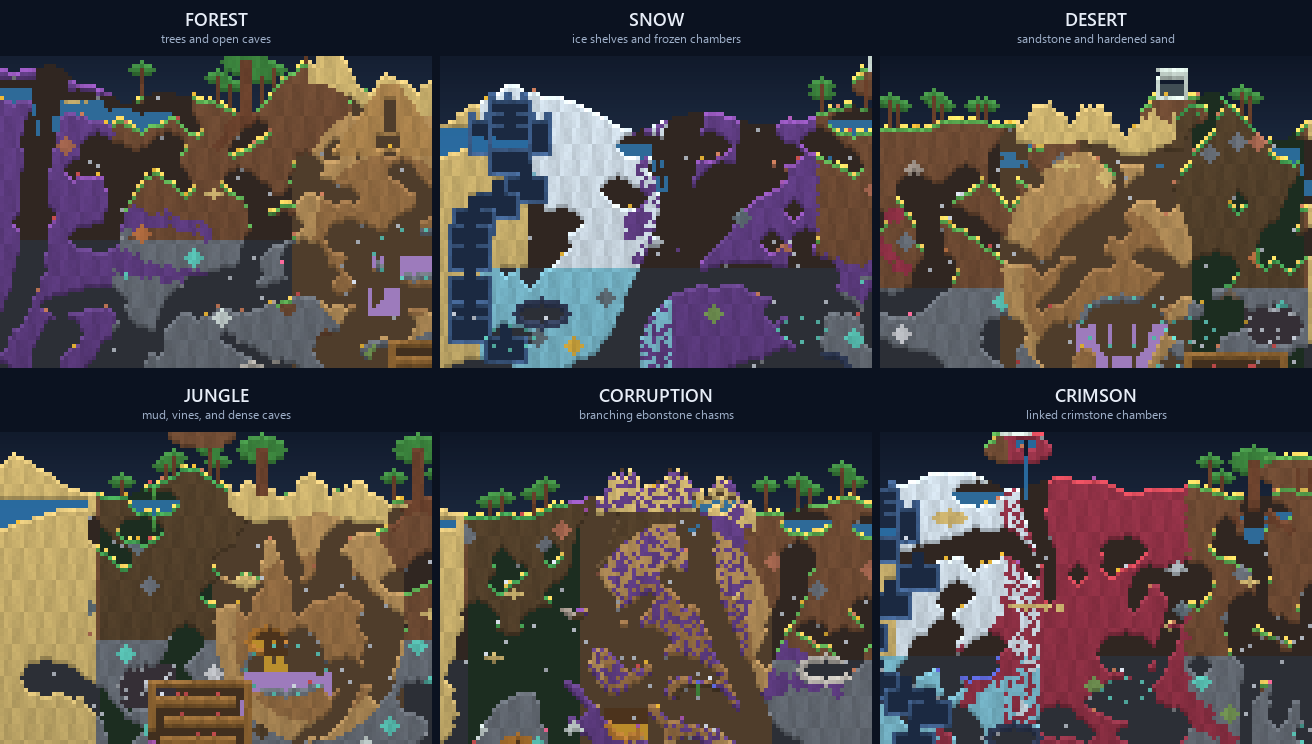
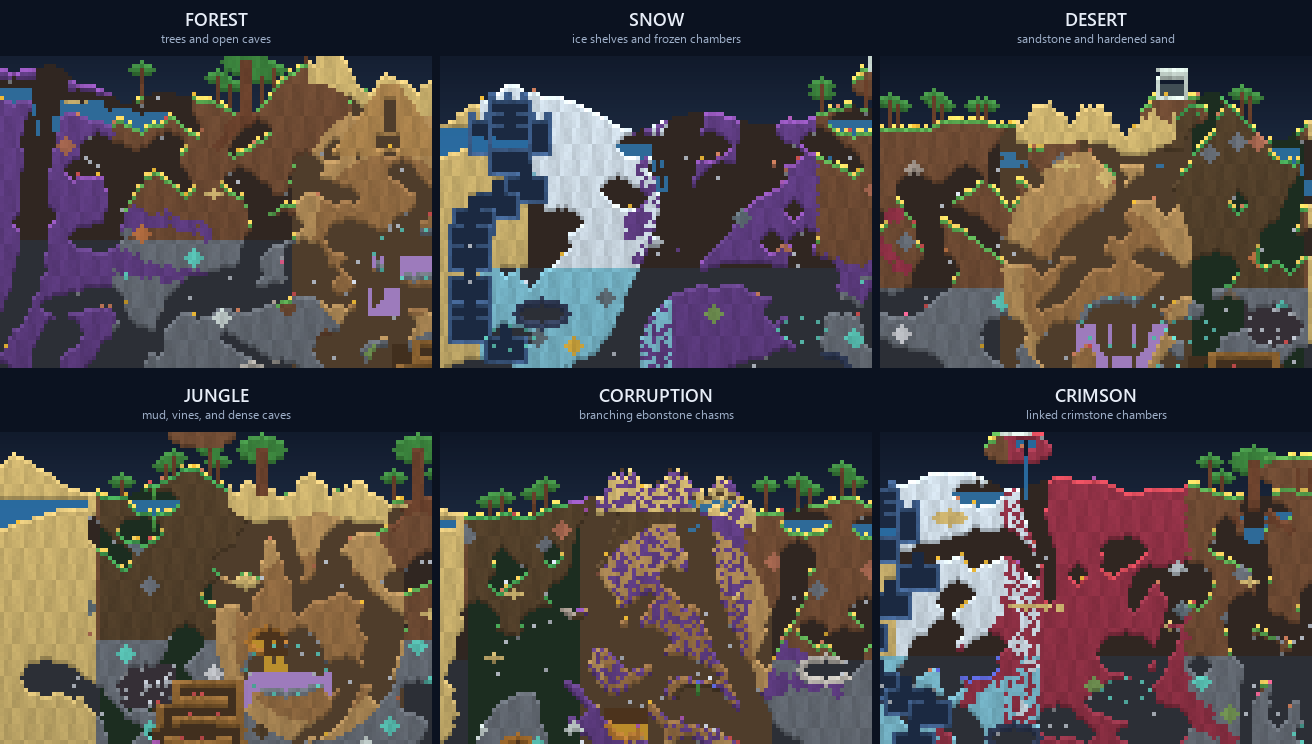
Subtle generation changes

diff --git a/terraexplorer/generation.py b/terraexplorer/generation.py
@@ -576,21 +576,52 @@ def webs(world: GeneratedWorld, rng: np.random.Generator) -> None:
 def underworld(world: GeneratedWorld, rng: np.random.Generator) -> None:
     height, width = world.shape
     top = world.layers.underworld
-    world.tiles[top:, :] = Tile.ASH
-    world.tiles[height - max(3, (height - top) // 4) :, :] = Tile.HELLSTONE
+    depth = height - top
+    columns = np.arange(width)
+    noise = rng.normal(0.0, 1.0, width)
+    smoothing = max(3, int(_pick(world, 5, 55)))
+    noise = np.convolve(noise, np.ones(smoothing) / smoothing, mode="same")
+    floor_profile = (
+        top
+        + depth * 0.74
+        + np.sin(columns / max(4, _pick(world, 10, 130))) * depth * 0.09
+        + np.sin(columns / max(3, _pick(world, 4, 47))) * depth * 0.04
+        + noise * depth * 0.12
+    ).astype(np.int16)
+    floor_profile = np.clip(
+        floor_profile,
+        top + max(5, round(depth * 0.56)),
+        height - 3,
+    )
+    lava_level = top + round(depth * 0.58)
+    world.metadata["underworld_lava_level"] = lava_level
+
+    world.tiles[top:, :] = Tile.AIR
     world.biomes[top:, :] = Biome.UNDERWORLD
     world.walls[top:, :] = Wall.STONE
-    for _ in range(int(_pick(world, 10, 110))):
+    world.liquid_kind[top:, :] = Liquid.NONE
+    world.liquid_amount[top:, :] = 0
+    for x, floor_y in enumerate(floor_profile):
+        world.tiles[floor_y:, x] = Tile.ASH
+        hellstone_y = floor_y + max(2, (height - int(floor_y)) // 2)
+        world.tiles[hellstone_y:, x] = Tile.HELLSTONE
+
+    for _ in range(int(_pick(world, 8, 65))):
         x = int(rng.integers(4, width - 4))
-        y = int(rng.integers(top + 2, height - 3))
+        y = int(rng.integers(top + 3, max(top + 4, lava_level + 1)))
+        rx, ry = tuple(_pick(world, (4, 2), (22, 10)))
+        material = Tile.HELLSTONE if rng.random() < 0.25 else Tile.ASH
+        stamp_ellipse(world.tiles, x, y, int(rx), int(ry), material, (Tile.AIR,))
+
+    for _ in range(int(_pick(world, 12, 120))):
+        x = int(rng.integers(4, width - 4))
+        y = int(rng.integers(lava_level, height - 3))
         rx, ry = tuple(_pick(world, (5, 3), (18, 9)))
         stamp_ellipse(world.tiles, x, y, int(rx), int(ry), Tile.AIR, (Tile.ASH, Tile.HELLSTONE))
-        if y > top + (height - top) // 2:
-            y0, y1 = y, min(height, y + max(1, int(ry) // 2))
-            x0, x1 = max(0, x - int(rx) // 2), min(width, x + int(rx) // 2)
-            air = world.tiles[y0:y1, x0:x1] == Tile.AIR
-            world.liquid_kind[y0:y1, x0:x1][air] = Liquid.LAVA
-            world.liquid_amount[y0:y1, x0:x1][air] = 255
+
+    lava_region = world.tiles[lava_level:, :] == Tile.AIR
+    world.liquid_kind[lava_level:, :][lava_region] = Liquid.LAVA
+    world.liquid_amount[lava_level:, :][lava_region] = 255
 
     city_count = int(_pick(world, 2, 8))
     city_span = int(_pick(world, 42, 360))
@@ -600,8 +631,13 @@ def underworld(world: GeneratedWorld, rng: np.random.Generator) -> None:
         cursor = start_x
         city_top = height
         city_bottom = top
-        street_min = min(height - 5, top + int(_pick(world, 18, 80)))
-        street_y = int(rng.integers(max(top + 5, street_min), height - 3))
+        street_y = int(
+            np.clip(
+                lava_level + rng.integers(-int(_pick(world, 1, 7)), int(_pick(world, 2, 9))),
+                top + 8,
+                height - 5,
+            )
+        )
         for _house in range(house_count):
             room_w = int(_pick(world, rng.integers(9, 15), rng.integers(28, 48)))
             room_h = int(_pick(world, rng.integers(7, 11), rng.integers(16, 28)))
@@ -617,6 +653,8 @@ def underworld(world: GeneratedWorld, rng: np.random.Generator) -> None:
                 Tile.OBSIDIAN_BRICK,
                 Wall.OBSIDIAN,
             )
+            world.liquid_kind[room_y:street_y, cursor : cursor + room_w] = Liquid.NONE
+            world.liquid_amount[room_y:street_y, cursor : cursor + room_w] = 0
             if room_h >= int(_pick(world, 9, 22)):
                 shelf_y = room_y + room_h // 2
                 world.tiles[shelf_y, cursor + 1 : cursor + room_w - 1] = Tile.PLATFORM
@@ -633,6 +671,16 @@ def underworld(world: GeneratedWorld, rng: np.random.Generator) -> None:
             bridge_y = room_y + room_h - 1
             bridge_end = min(width - 1, cursor + room_w + int(_pick(world, 3, 16)))
             world.tiles[bridge_y, cursor + room_w : bridge_end] = Tile.PLATFORM
+            world.liquid_kind[bridge_y, cursor + room_w : bridge_end] = Liquid.NONE
+            world.liquid_amount[bridge_y, cursor + room_w : bridge_end] = 0
+            support_columns = (cursor + 1, cursor + room_w // 2, cursor + room_w - 2)
+            for support_x in support_columns:
+                support_bottom = max(street_y + 2, int(floor_profile[support_x]) + 1)
+                support_bottom = min(height - 1, support_bottom)
+                world.tiles[street_y:support_bottom, support_x] = Tile.OBSIDIAN_BRICK
+                world.liquid_kind[street_y:support_bottom, support_x] = Liquid.NONE
+                world.liquid_amount[street_y:support_bottom, support_x] = 0
+                city_bottom = max(city_bottom, support_bottom)
             city_top = min(city_top, room_y)
             city_bottom = max(city_bottom, room_y + room_h)
             cursor = bridge_end
@@ -646,6 +694,9 @@ def underworld(world: GeneratedWorld, rng: np.random.Generator) -> None:
                 city_bottom - city_top,
                 "▥",
             )
+    solid = world.tiles != Tile.AIR
+    world.liquid_kind[solid] = Liquid.NONE
+    world.liquid_amount[solid] = 0
 
 
 def evil_biome(world: GeneratedWorld, rng: np.random.Generator) -> None:
@@ -1073,26 +1124,66 @@ def jungle_temple(world: GeneratedWorld, rng: np.random.Generator) -> None:
             max(world.layers.rock_layer + 1, world.layers.underworld - height - 4),
         )
     )
-    world.tiles[y : y + height, x : x + width] = Tile.LIHZAHRD_BRICK
     corridor_h = max(2, int(_pick(world, 2, 5)))
     level_step = max(5, int(_pick(world, 5, 14)))
+    step_width = max(2, int(_pick(world, 2, 8)))
+    maximum_inset = max(4, width // 5)
+    silhouette = np.zeros((height, width), dtype=bool)
+    for local_y in range(height):
+        progress = local_y / max(1, height - 1)
+        raw_inset = round((1.0 - progress) * maximum_inset)
+        inset = (raw_inset // step_width) * step_width
+        shift = 0
+        if local_y < height // 3:
+            shift = step_width
+        elif local_y > 2 * height // 3:
+            shift = -step_width
+        left = int(np.clip(inset + shift, 1, width - 5))
+        right = int(np.clip(width - inset + shift, left + 4, width - 1))
+        silhouette[local_y, left:right] = True
+    silhouette[-max(3, level_step // 2) :, 1 : width - 1] = True
+    temple_region = world.tiles[y : y + height, x : x + width]
+    temple_region[silhouette] = Tile.LIHZAHRD_BRICK
+
     direction = 1
     for level_y in range(y + 2, y + height - 3, level_step):
-        world.tiles[
-            level_y : min(y + height - 2, level_y + corridor_h),
-            x + 2 : x + width - 2,
-        ] = Tile.AIR
-        connector_x = x + width - 4 if direction > 0 else x + 2
-        world.tiles[
-            level_y : min(y + height - 2, level_y + level_step + corridor_h),
-            connector_x : connector_x + 2,
-        ] = Tile.AIR
+        corridor_bottom = min(y + height - 2, level_y + corridor_h)
+        local_level = level_y - y
+        row_columns = np.flatnonzero(silhouette[local_level])
+        if row_columns.size < 6:
+            continue
+        corridor_left = int(row_columns[0] + 2)
+        corridor_right = int(row_columns[-1] - 1)
+        for corridor_y in range(level_y, corridor_bottom):
+            local_row = corridor_y - y
+            row_columns = np.flatnonzero(silhouette[local_row])
+            if row_columns.size >= 6:
+                left = max(corridor_left, int(row_columns[0] + 2))
+                right = min(corridor_right, int(row_columns[-1] - 1))
+                world.tiles[corridor_y, x + left : x + right] = Tile.AIR
+        connector_local_x = corridor_right - 2 if direction > 0 else corridor_left
+        connector_x = x + connector_local_x
+        for connector_y in range(level_y, min(y + height - 2, level_y + level_step + 1)):
+            if silhouette[connector_y - y, connector_local_x]:
+                world.tiles[connector_y, connector_x : connector_x + 2] = Tile.AIR
         direction *= -1
+
+    chamber_y = y + height - max(7, level_step)
+    chamber_left = x + width // 3
+    chamber_right = x + 2 * width // 3
+    world.tiles[chamber_y : y + height - 3, chamber_left:chamber_right] = Tile.AIR
     interior = world.tiles[y + 1 : y + height - 1, x + 1 : x + width - 1] == Tile.AIR
     world.walls[y + 1 : y + height - 1, x + 1 : x + width - 1][interior] = Wall.LIHZAHRD
     doorway_y = y + height - max(5, level_step)
-    world.tiles[doorway_y : y + height - 2, x : x + 3] = Tile.AIR
-    world.walls[doorway_y : y + height - 2, x : x + 3] = Wall.LIHZAHRD
+    doorway_local_x = int(np.flatnonzero(silhouette[doorway_y - y])[0])
+    world.tiles[
+        doorway_y : y + height - 2,
+        x + doorway_local_x : x + doorway_local_x + 3,
+    ] = Tile.AIR
+    world.walls[
+        doorway_y : y + height - 2,
+        x + doorway_local_x : x + doorway_local_x + 3,
+    ] = Wall.LIHZAHRD
     _place_marker(world, "Jungle temple", x, y, width, height, "T")
 
 

diff --git a/tests/test_pipeline.py b/tests/test_pipeline.py
@@ -8,7 +8,7 @@ from terraexplorer.config import Evil, WorldConfig
 from terraexplorer.generation import advance_biome_spread
 from terraexplorer.passes import Phase
 from terraexplorer.pipeline import GenerationCancelledError, TerraExplorerPipeline, generate_world
-from terraexplorer.tiles import Biome, Liquid, Tile
+from terraexplorer.tiles import Biome, Liquid, Tile, Wall
 
 
 def test_generation_is_deterministic_and_uses_independent_arrays() -> None:
@@ -99,6 +99,30 @@ def test_showcase_structures_are_real_world_state() -> None:
     pyramid = next(marker for marker in world.structures if marker.kind == "Pyramid")
     pyramid_x = pyramid.x + pyramid.width // 2
     assert pyramid.y > world.surface[pyramid_x]
+
+    temple = next(marker for marker in world.structures if marker.kind == "Jungle temple")
+    temple_state = np.isin(
+        world.tiles[
+            temple.y : temple.y + temple.height,
+            temple.x : temple.x + temple.width,
+        ],
+        (Tile.LIHZAHRD_BRICK, Tile.TRAP, Tile.ALTAR),
+    ) | (
+        world.walls[
+            temple.y : temple.y + temple.height,
+            temple.x : temple.x + temple.width,
+        ]
+        == Wall.LIHZAHRD
+    )
+    assert np.count_nonzero(temple_state[0]) < np.count_nonzero(temple_state[-2])
+
+    lava_level = int(world.metadata["underworld_lava_level"])
+    underworld_lava = (world.liquid_kind[lava_level:] == Liquid.LAVA) & (
+        world.liquid_amount[lava_level:] > 0
+    )
+    assert np.count_nonzero(underworld_lava) > world.shape[1]
+    submerged_city = (world.tiles == Tile.OBSIDIAN_BRICK) & (rows >= lava_level)
+    assert np.any(submerged_city)
 
 
 def test_biome_spread_stops_at_world_boundaries() -> None:

diff --git a/terraexplorer/gui.py b/terraexplorer/gui.py
@@ -2,6 +2,7 @@
 
 from __future__ import annotations
 
+import math
 import queue
 import secrets
 import threading
@@ -640,7 +641,7 @@ class TerraExplorerApp:
             f"{len(world.structures)} landmarks discovered"
         )
         self._update_metrics()
-        self._render_view()
+        self.root.after_idle(self._fit)
 
     def _generation_stopped(self, status: str) -> None:
         self.generate_button.configure(state="normal")
@@ -777,9 +778,24 @@ class TerraExplorerApp:
         available_w = max(1, self.canvas.winfo_width() - 4)
         available_h = max(1, self.canvas.winfo_height() - 4)
         self.display_scale = max(
-            1, min(8, int(min(available_w / world.shape[1], available_h / world.shape[0])))
+            1,
+            min(
+                8,
+                math.ceil(max(available_w / world.shape[1], available_h / world.shape[0])),
+            ),
         )
         self._render_view()
+        self.root.after_idle(self._center_view)
+
+    def _center_view(self) -> None:
+        if self.photo is None:
+            return
+        available_w = max(1, self.canvas.winfo_width() - 4)
+        available_h = max(1, self.canvas.winfo_height() - 4)
+        image_w = self.photo.width()
+        image_h = self.photo.height()
+        self.canvas.xview_moveto(max(0.0, (image_w - available_w) / max(1, 2 * image_w)))
+        self.canvas.yview_moveto(max(0.0, (image_h - available_h) / max(1, 2 * image_h)))
 
     def _zoom(self, delta: int) -> None:
         self.display_scale = max(1, min(8, self.display_scale + delta))

diff --git a/scripts/generate_media.py b/scripts/generate_media.py
@@ -301,7 +301,7 @@ def build_depth_descent() -> None:
     scale = 1
     world_image = render_world(world, scale=scale, markers=True)
     viewport_width, viewport_height = 1080, 540
-    focus_x = int(world.metadata["jungle_x"])
+    focus_x = round((int(world.metadata["snow_x"]) + int(world.metadata["dungeon_x"])) / 2)
     left = int(np.clip(focus_x - viewport_width // 2, 0, world_image.width - viewport_width))
     maximum_y = world_image.height - viewport_height
     down = [round(maximum_y * (0.5 - 0.5 * math.cos(math.pi * step / 21))) for step in range(22)]

diff --git a/scripts/capture_gui.py b/scripts/capture_gui.py
@@ -47,8 +47,7 @@ def main() -> None:
     def frame_world() -> None:
         if app.current_world is not None:
             app._fit()
-            app.canvas.xview_moveto(0.0)
-            app.canvas.yview_moveto(0.0)
+            app._center_view()
 
     root.after(3200, frame_world)
     root.after(4300, capture)

diff --git a/README.md b/README.md
@@ -55,7 +55,9 @@ world can grow and un-grow without restarting generation.
 
 You can also pan and zoom, inspect individual tiles, switch biome and depth
 overlays, compare against the previous world, and export PNG, GIF, NPZ, or JSON.
-Generation runs off the Tk event loop and can be cancelled between passes.
+The automatic cover-fit fills the map table and centers the small amount cropped
+at its edges instead of surrounding the world with empty canvas. Generation
+runs off the Tk event loop and can be cancelled between passes.
 
 For a headless run:
 
@@ -91,8 +93,8 @@ The landmark atlas shows six distinct generated systems:
 | Dungeon | A crenellated surface keep connected to descending rooms and corridors |
 | Buried Pyramid | Sandstone shell, entrance shaft, treasure chamber, and buried profile |
 | Aether | Stone and gem shell around a pool whose liquid kind is Shimmer |
-| Jungle Temple | Sealed brick footprint, multiple corridors, traps, and altar chamber |
-| Underworld city | Obsidian-brick ruins, rooms, bridges, lava gaps, and Hellforge placement |
+| Jungle Temple | Asymmetric stepped shell, alternating maze corridors, traps, and altar chamber |
+| Underworld city | Obsidian-brick ruins, bridges, Hellforges, and foundations descending through lava |
 
 The overview below puts those landmarks back into a full Small world. The
 biome tint and layer guides are diagnostic overlays; the symbols are original
@@ -123,10 +125,12 @@ materials, and does not wrap across world boundaries.
 
 ![Animated descent from the surface to the Underworld](docs/media/depth_descent.gif)
 
-This descent travels through one `4200 x 1200` world. It has no decorative
-title competing with the terrain: a compact live depth label stays over the
-map, while the separate gauge marks Space, Surface, Underground, Rock, Deep
-Caverns, Underworld, and Bottom with intermediate ticks.
+This descent travels through the snowy Dungeon coast of one `4200 x 1200`
+world. Its fixed route keeps the beach, ocean edge, Snow biome, and Dungeon in
+view before following their caves into the Underworld. It has no decorative
+title competing with the terrain: a compact live depth label stays over the map,
+while the separate gauge marks Space, Surface, Underground, Rock, Deep Caverns,
+Underworld, and Bottom with intermediate ticks.
 
 It is a longer trip than the preview used to imply. Bring rope.
 
@@ -176,8 +180,8 @@ not mean byte-for-byte compatibility.
 
 Recent improvements include biome spread, floating-island waterfalls and
 houses, a stronger Dungeon exterior, buried Pyramids, a multi-room Temple,
-Shimmer in the Aether, and Underworld ruins with Hellforges. Remaining
-approximations are listed plainly in the
+Shimmer in the Aether, and Underworld ruins supported through a deeper lava sea.
+Remaining approximations are listed plainly in the
 [fidelity inventory](docs/FIDELITY.md). Data boundaries and extension rules
 live in the [architecture guide](docs/ARCHITECTURE.md).
 

diff --git a/docs/FIDELITY.md b/docs/FIDELITY.md
@@ -58,13 +58,13 @@ Guide.
 - Dungeon generation now builds a visible surface keep before descending into
   clipped rooms and corridors.
 - Floating islands can carry sky-brick houses, reservoirs, and falling water.
-- Jungle Temples use a sealed multi-level brick maze with corridors, traps, and
-  an altar chamber.
+- Jungle Temples use an asymmetric stepped shell around a multi-level maze,
+  traps, and an altar chamber.
 - Pyramids sit mostly below the desert surface and include a shaft and treasure
   chamber.
 - The Aether has a stone and gem shell around an actual Shimmer liquid pool.
 - Underworld cities form obsidian-brick ruins, bridges, rooms, and Hellforge
-  placements.
+  placements with foundations descending through a varied lava sea.
 - Corruption, Crimson, and Hallow can advance into adjacent natural materials
   without wrapping across map edges.
 

diff --git a/CHANGELOG.md b/CHANGELOG.md
@@ -20,6 +20,9 @@ All notable project changes are documented here. This project follows
   reserved.
 - Replaced the shared-runner-sensitive 1.5-second test with a runaway-regression
   guard, and moved both workflows to the Node 24-based official actions.
+- Changed the workshop fit mode to fill and center the map table, reshaped the
+  Temple into an asymmetric stepped complex, deepened and varied the Underworld
+  lava terrain, and moved the descent study to the snowy Dungeon coast.
 - Replaced the project emblem with a transparent mechanical pixel-tree icon
   based on the supplied silhouette reference.
 - Restyled the desktop app as a brass-and-iron world forge and refreshed its
